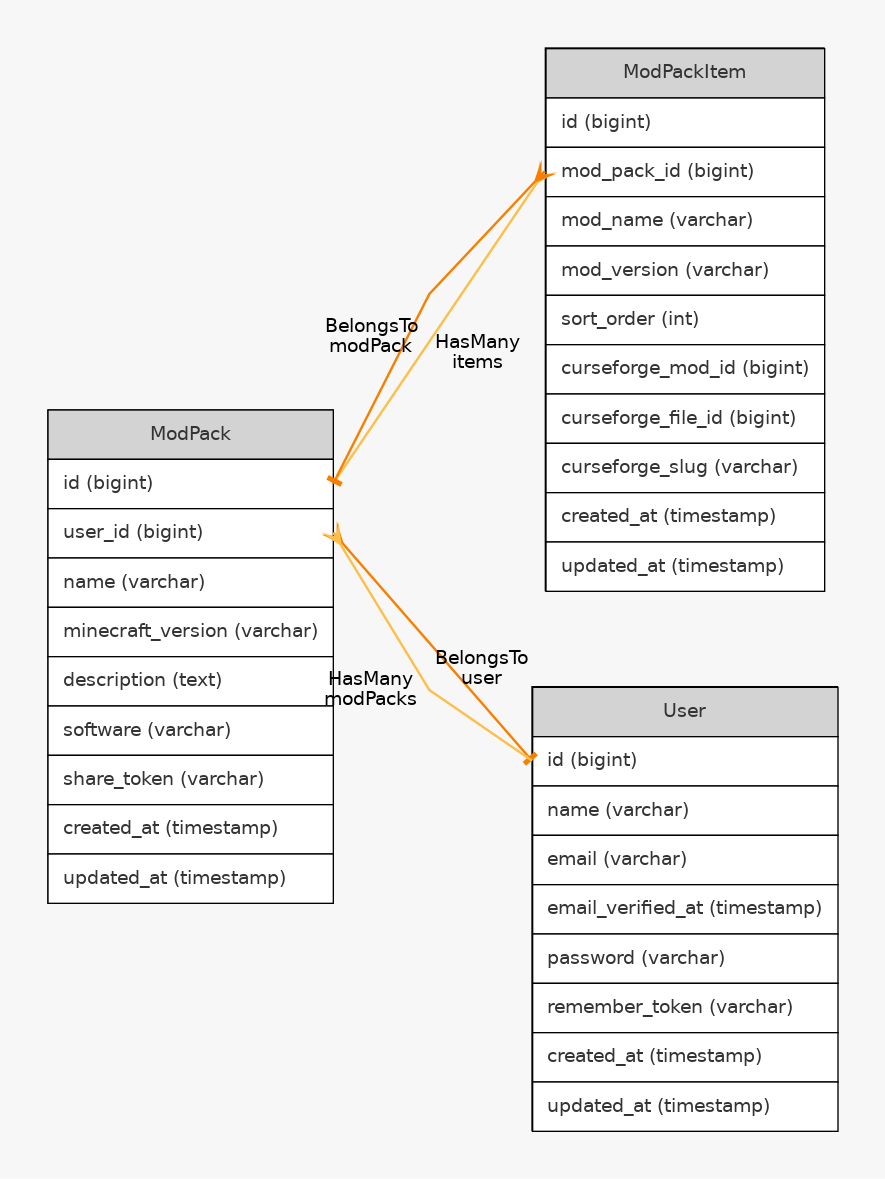
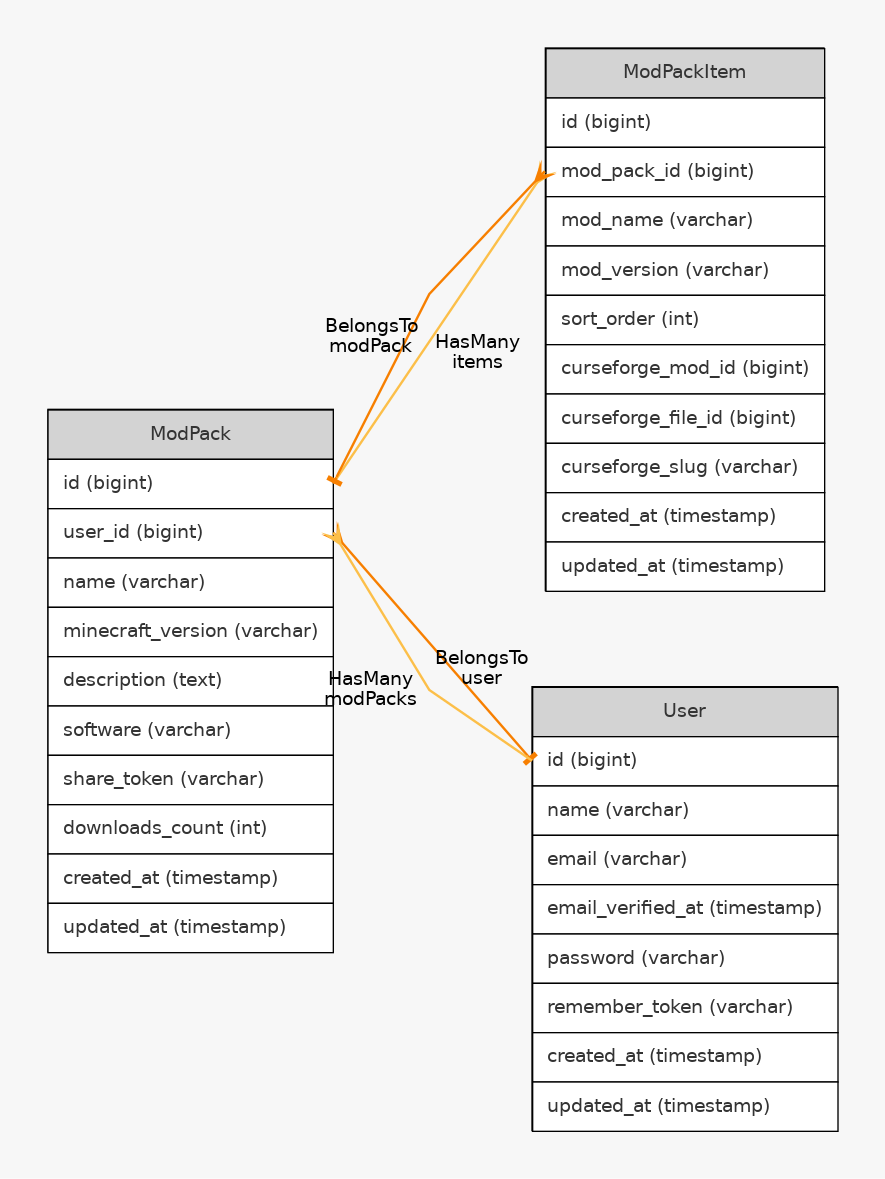
feat(modpacks): save download stats

Changed region(s): [[0.061, 0.6718, 0.3356, 0.7939]]

diff --git a/src/tests/Feature/ModPackTest.php b/src/tests/Feature/ModPackTest.php
@@ -2069,6 +2069,10 @@ class ModPackTest extends TestCase
             ], 200),
         ]);
 
+        // Verify initial downloads_count is 0
+        $modPack->refresh();
+        $this->assertEquals(0, $modPack->downloads_count);
+
         $response = $this->actingAs($user)->get("/mod-packs/{$modPack->id}/download-links");
 
         $response->assertStatus(200);
@@ -2085,6 +2089,10 @@ class ModPackTest extends TestCase
         $this->assertContains($item1->id, $itemIds);
         $this->assertContains($item2->id, $itemIds);
 
+        // Verify downloads_count was incremented
+        $modPack->refresh();
+        $this->assertEquals(1, $modPack->downloads_count);
+
         // Also test individual item download link endpoint (covers getItemDownloadLink method)
         // Need to ensure HTTP fake covers getModFile endpoint (used by getFileDownloadInfo)
         Http::fake([
@@ -2096,6 +2104,11 @@ class ModPackTest extends TestCase
                 ],
             ], 200),
         ]);
+        // Reset downloads_count for individual download test
+        $modPack->update(['downloads_count' => 0]);
+        $modPack->refresh();
+        $this->assertEquals(0, $modPack->downloads_count);
+
         $response = $this->actingAs($user)->get("/mod-packs/{$modPack->id}/items/{$item1->id}/download-link");
         $response->assertStatus(200);
         $response->assertJsonStructure([
@@ -2104,6 +2117,10 @@ class ModPackTest extends TestCase
         $itemData = $response->json('data');
         $this->assertEquals($item1->id, $itemData['item_id']);
         $this->assertEquals('JEI', $itemData['mod_name']);
+
+        // Verify downloads_count was incremented
+        $modPack->refresh();
+        $this->assertEquals(1, $modPack->downloads_count);
     }
 
     /**
@@ -3266,6 +3283,10 @@ class ModPackTest extends TestCase
         ]);
         $token = $modPack->generateShareToken();
 
+        // Verify initial downloads_count is 0
+        $modPack->refresh();
+        $this->assertEquals(0, $modPack->downloads_count);
+
         Http::fake([
             'api.curseforge.com/v1/mods/123456/files/789012' => Http::response([
                 'data' => [
@@ -3294,6 +3315,10 @@ class ModPackTest extends TestCase
                 ],
             ],
         ]);
+
+        // Verify downloads_count was incremented
+        $modPack->refresh();
+        $this->assertEquals(1, $modPack->downloads_count);
     }
 
     /**
@@ -3311,6 +3336,10 @@ class ModPackTest extends TestCase
             'curseforge_file_id' => 789012,
         ]);
         $token = $modPack->generateShareToken();
+
+        // Verify initial downloads_count is 0
+        $modPack->refresh();
+        $this->assertEquals(0, $modPack->downloads_count);
 
         Http::fake([
             'api.curseforge.com/v1/mods/123456/files/789012' => Http::response([
@@ -3345,6 +3374,10 @@ class ModPackTest extends TestCase
                 'mod_version' => '1.0.0',
             ],
         ]);
+
+        // Verify downloads_count was incremented
+        $modPack->refresh();
+        $this->assertEquals(1, $modPack->downloads_count);
     }
 
     /**
@@ -3477,6 +3510,10 @@ class ModPackTest extends TestCase
         ]);
         $token = $modPack->generateShareToken();
 
+        // Verify initial downloads_count is 0
+        $modPack->refresh();
+        $this->assertEquals(0, $modPack->downloads_count);
+
         Http::fake([
             'api.curseforge.com/v1/mods/123456/files/789012' => Http::response([
                 'data' => [
@@ -3497,6 +3534,10 @@ class ModPackTest extends TestCase
         $data = $response->json('data');
         $this->assertCount(1, $data);
         $this->assertEquals($itemWithMetadata->id, $data[0]['item_id']);
+
+        // Verify downloads_count was incremented
+        $modPack->refresh();
+        $this->assertEquals(1, $modPack->downloads_count);
     }
 
     /**

diff --git a/src/tests/Feature/LandingTest.php b/src/tests/Feature/LandingTest.php
@@ -2,6 +2,8 @@
 
 namespace Tests\Feature;
 
+use App\Models\ModPack;
+use App\Models\User;
 use Illuminate\Foundation\Testing\RefreshDatabase;
 use Tests\TestCase;
 
@@ -149,6 +151,72 @@ class LandingTest extends TestCase
             ->where('stats.total_mod_packs', fn ($value) => is_int($value) && $value >= 0)
             ->where('stats.total_users', fn ($value) => is_int($value) && $value >= 0)
             ->where('stats.total_downloads', fn ($value) => is_int($value) && $value >= 0)
+        );
+    }
+
+    /**
+     * Test that total_downloads is the sum of downloads_count from all mod packs.
+     */
+    public function test_total_downloads_is_sum_of_downloads_count(): void
+    {
+        $user1 = User::factory()->create();
+        $user2 = User::factory()->create();
+
+        // Create mod packs with different download counts
+        $modPack1 = ModPack::factory()->create([
+            'user_id' => $user1->id,
+            'downloads_count' => 5,
+        ]);
+        $modPack2 = ModPack::factory()->create([
+            'user_id' => $user1->id,
+            'downloads_count' => 10,
+        ]);
+        $modPack3 = ModPack::factory()->create([
+            'user_id' => $user2->id,
+            'downloads_count' => 15,
+        ]);
+
+        $expectedTotal = 5 + 10 + 15; // 30
+
+        $response = $this->get('/');
+
+        $response->assertStatus(200);
+        $response->assertInertia(fn ($page) => $page->component('Index')
+            ->where('stats.total_downloads', $expectedTotal)
+        );
+    }
+
+    /**
+     * Test that total_downloads is zero when no mod packs exist.
+     */
+    public function test_total_downloads_is_zero_when_no_mod_packs_exist(): void
+    {
+        $response = $this->get('/');
+
+        $response->assertStatus(200);
+        $response->assertInertia(fn ($page) => $page->component('Index')
+            ->where('stats.total_downloads', 0)
+        );
+    }
+
+    /**
+     * Test that total_downloads handles mod packs with zero downloads correctly.
+     */
+    public function test_total_downloads_handles_zero_downloads(): void
+    {
+        $user = User::factory()->create();
+
+        // Create mod packs with zero downloads
+        ModPack::factory()->count(3)->create([
+            'user_id' => $user->id,
+            'downloads_count' => 0,
+        ]);
+
+        $response = $this->get('/');
+
+        $response->assertStatus(200);
+        $response->assertInertia(fn ($page) => $page->component('Index')
+            ->where('stats.total_downloads', 0)
         );
     }
 }

diff --git a/src/app/Http/Controllers/ModPackController.php b/src/app/Http/Controllers/ModPackController.php
@@ -315,6 +315,9 @@ class ModPackController extends Controller
             }
         }
 
+        // Increment downloads count for ZIP download
+        $modPack->increment('downloads_count');
+
         return response()->json([
             'data' => $downloadLinks,
         ]);
@@ -345,6 +348,9 @@ class ModPackController extends Controller
                 'error' => __('messages.modpack.unable_to_retrieve_download'),
             ], 404);
         }
+
+        // Increment downloads count
+        $modPack->increment('downloads_count');
 
         return response()->json([
             'data' => [
@@ -671,6 +677,9 @@ class ModPackController extends Controller
             }
         }
 
+        // Increment downloads count for ZIP download
+        $modPack->increment('downloads_count');
+
         return response()->json([
             'data' => $downloadLinks,
         ]);
@@ -704,6 +713,9 @@ class ModPackController extends Controller
                 'error' => __('messages.modpack.unable_to_retrieve_download'),
             ], 404);
         }
+
+        // Increment downloads count
+        $modPack->increment('downloads_count');
 
         return response()->json([
             'data' => [

diff --git a/src/database/migrations/2026_01_03_202658_add_downloads_count_to_mod_packs_table.php b/src/database/migrations/2026_01_03_202658_add_downloads_count_to_mod_packs_table.php
@@ -1,0 +1,28 @@
+<?php
+
+use Illuminate\Database\Migrations\Migration;
+use Illuminate\Database\Schema\Blueprint;
+use Illuminate\Support\Facades\Schema;
+
+return new class extends Migration
+{
+    /**
+     * Run the migrations.
+     */
+    public function up(): void
+    {
+        Schema::table('mod_packs', function (Blueprint $table) {
+            $table->unsignedInteger('downloads_count')->default(0)->after('share_token');
+        });
+    }
+
+    /**
+     * Reverse the migrations.
+     */
+    public function down(): void
+    {
+        Schema::table('mod_packs', function (Blueprint $table) {
+            $table->dropColumn('downloads_count');
+        });
+    }
+};

diff --git a/src/app/Http/Controllers/LandingController.php b/src/app/Http/Controllers/LandingController.php
@@ -13,7 +13,7 @@ class LandingController extends Controller
         $stats = [
             'total_mod_packs' => ModPack::count(),
             'total_users' => User::count(),
-            'total_downloads' => ModPack::whereNotNull('share_token')->count(),
+            'total_downloads' => ModPack::sum('downloads_count'),
         ];
 
         return Inertia::render('Index', [

diff --git a/src/app/Models/ModPack.php b/src/app/Models/ModPack.php
@@ -23,6 +23,7 @@ class ModPack extends Model
         'software',
         'description',
         'share_token',
+        'downloads_count',
     ];
 
     /**

diff --git a/docs/testing.md b/docs/testing.md
@@ -19,3 +19,6 @@ For an easier and quick command, you can use this:
 $ docker compose exec app composer test
 # It runs all the necessary setup commands too before testing
 ```
+
+## CI
+[This GitHub Workflow](../.github/workflows/tests.yml) runs the tests automatically on commits to the master branch and pull requests.
